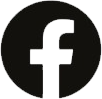
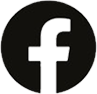
OPRAVENE ODKAZY

diff --git a/index.html b/index.html
@@ -23,13 +23,15 @@
                     <b>Tel. číslo:</b><br>
                     +420 776 072 271<br>
                     <b>E-mail:</b> <br>
-                    zuzana.jarosova93@seznam.cz <br>
-
-                    <a href="https://www.facebook.com/zuzi.jarosova"><img src="" alt="facebook_profil" /></a><br>
-                    <a href="https://www.instagram.com/zuz_jarosova/"><img src="" alt="instagram_profil" /></a><br>
-                    <a href="https://www.linkedin.com/in/zuzana-jaro%C5%A1ov%C3%A1-283726107/"><img src=""
-                            alt="linkedin_profil" /></a><br>
-
+                    zuzana.jarosova93@seznam.cz<br>
+                    <b>Sociální sítě:</b>
+                    <div class="site">
+                        
+                        <a href="https://www.facebook.com/zuzi.jarosova"><img src="obrazky/facebook.png" alt="facebook_profil" /></a>
+                        <a href="https://www.instagram.com/zuz_jarosova/"><img src="obrazky/instagram.png" alt="instagram_profil" /></a>
+                        <a href="https://www.linkedin.com/in/zuzana-jaro%C5%A1ov%C3%A1-283726107/"><img src="obrazky/linkedin.png"
+                                alt="linkedin_profil" /></a><br>
+                    </div>
                     <h3>JAZYKOVÉ ZNALOSTI</h3>
                     čeština: rodilý mluvčí<br>
                     angličtina: středně pokročilý<br>

diff --git a/style.css b/style.css
@@ -16,6 +16,12 @@ h1 {
 
 h2, h3 {
     font-family: serif;
+    
+}
+
+h3{
+    background-color: rgb(115, 96, 96);
+    color: white;
 }
 
 .CV {
@@ -38,3 +44,8 @@ img {
     padding: 20px 20px;
 }
 
+.site img {
+    max-width: 8%;
+    padding-left: 3%;
+    padding-top: 20px;
+}
